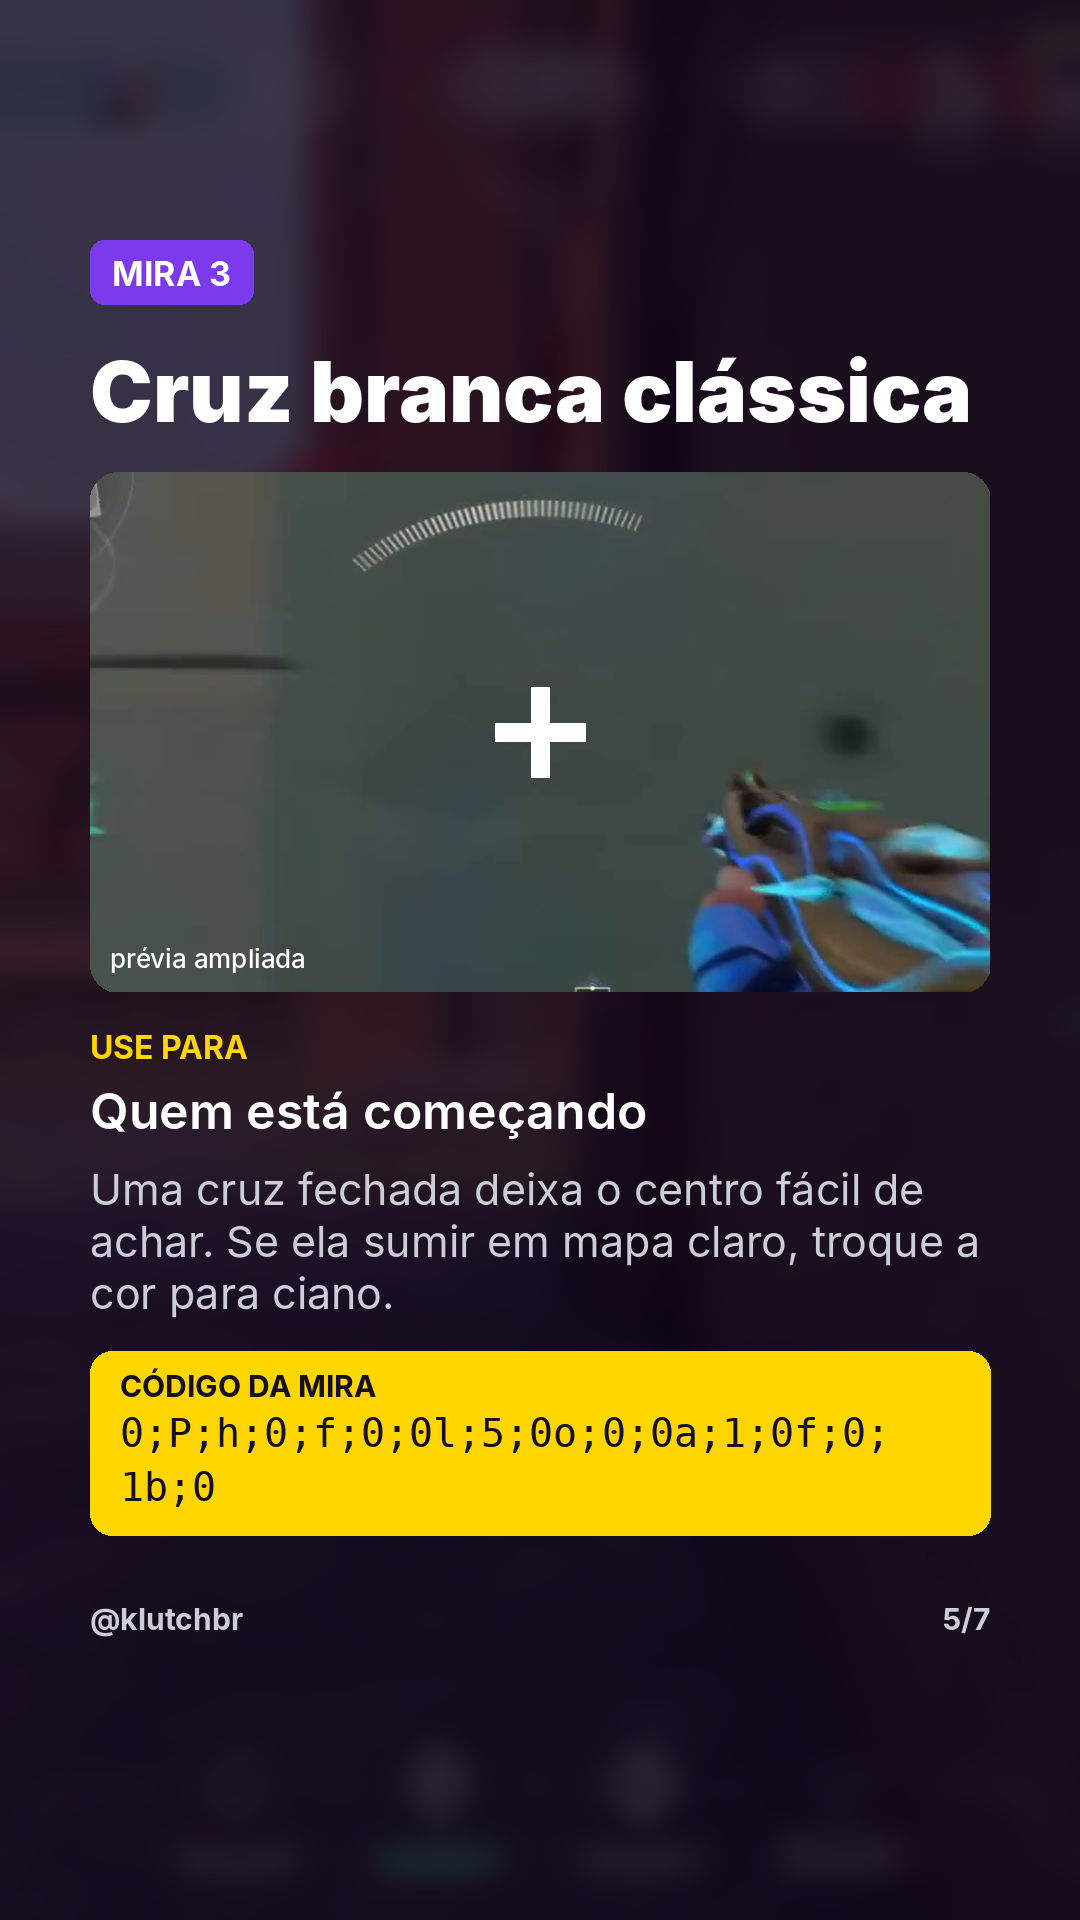
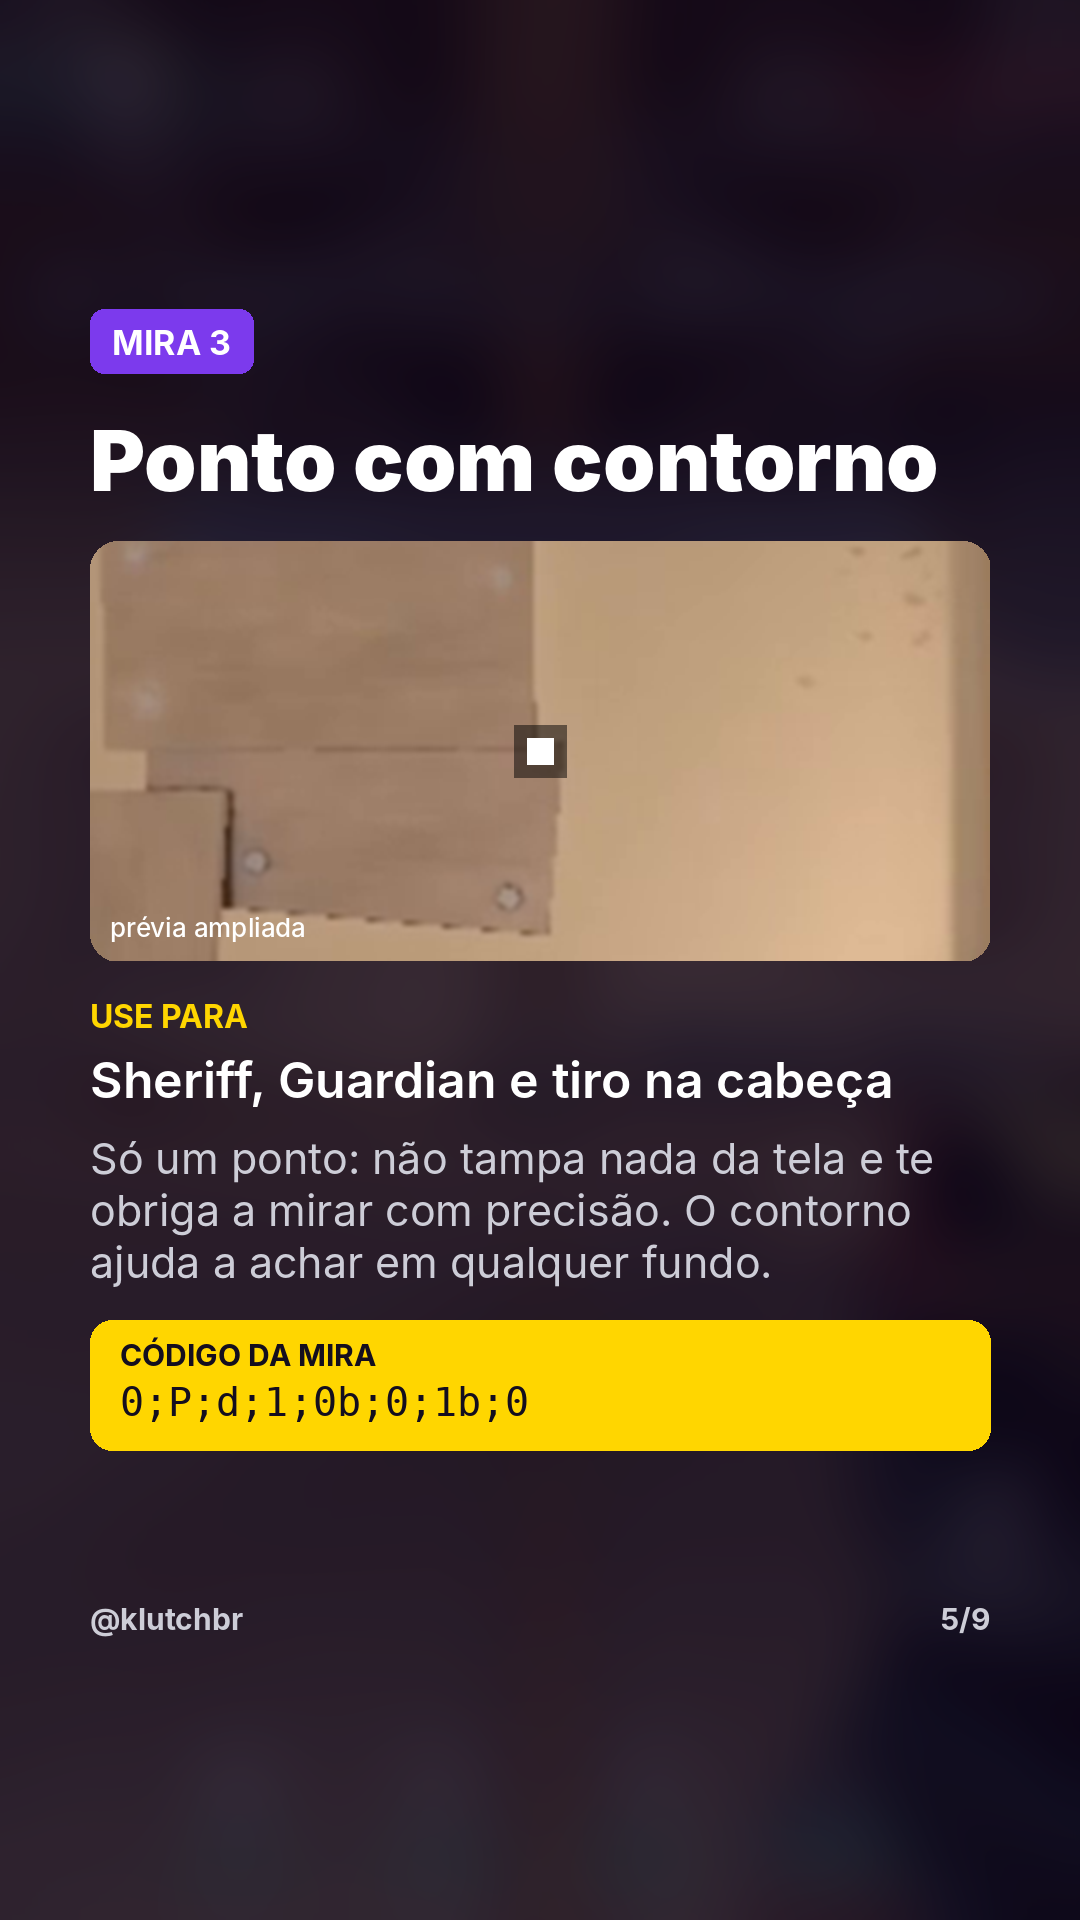
Carrossel de miras refeito com as 5 miras enviadas pelo dono
Claude-Session: https://claude.ai/code/session_01FgrfZPDFyZsNW4jAUKCZaJ

diff --git a/carrosseis/gerar.py b/carrosseis/gerar.py
@@ -22,11 +22,12 @@ def f(peso, tam):
 
 
 def fundo(nome, escurecer=0.32):
+    blur = 34 if nome.startswith("ret") else 14
     im = Image.open(BG / f"{nome}.png").convert("RGB")
     s = max(W / im.width, H / im.height)
     im = im.resize((int(im.width * s) + 1, int(im.height * s) + 1), Image.LANCZOS)
     x = (im.width - W) // 2
-    im = im.crop((x, 0, x + W, H)).filter(ImageFilter.GaussianBlur(14))
+    im = im.crop((x, 0, x + W, H)).filter(ImageFilter.GaussianBlur(blur))
     im = ImageEnhance.Brightness(im).enhance(escurecer)
     # véu roxo bem leve
     veu = Image.new("RGB", (W, H), (30, 12, 60))
@@ -142,34 +143,31 @@ def s_classe(s, d, im):
 
 
 def desenha_mira(cfg, escala=9):
-    """Desenha a mira com base nos parâmetros do código (em pixels do jogo x escala)."""
-    tam = 480
+    """Desenha a mira a partir dos parâmetros do código (pixels do jogo x escala)."""
+    tam = 640
     im = Image.new("RGBA", (tam, tam), (0, 0, 0, 0))
-    d = ImageDraw.Draw(im)
-    c = tam // 2
+    c = tam / 2
     cor = tuple(cfg["cor"])
-    t = cfg.get("t", 2) * escala
-    contorno = cfg.get("h", 0)
-    oc = (0, 0, 0, 255)
-    ow = escala  # espessura do contorno
-
-    def ret(x0, y0, x1, y1):
-        if contorno:
-            d.rectangle((x0 - ow, y0 - ow, x1 + ow, y1 + ow), fill=oc)
-        d.rectangle((x0, y0, x1, y1), fill=cor)
-
     rects = []
-    if cfg.get("l", 0) > 0:
-        L = cfg["l"] * escala
-        o = cfg.get("o", 0) * escala
-        rects += [(c - t / 2, c - o - L, c + t / 2, c - o), (c - t / 2, c + o, c + t / 2, c + o + L),
-                  (c - o - L, c - t / 2, c - o, c + t / 2), (c + o, c - t / 2, c + o + L, c + t / 2)]
+    for ln in cfg.get("linhas", []):
+        t = ln.get("t", 2) * escala
+        o = ln.get("o", 0) * escala
+        lh, lv = ln.get("lh", 0) * escala, ln.get("lv", 0) * escala
+        if lv:
+            rects += [(c - t / 2, c - o - lv, c + t / 2, c - o), (c - t / 2, c + o, c + t / 2, c + o + lv)]
+        if lh:
+            rects += [(c - o - lh, c - t / 2, c - o, c + t / 2), (c + o, c - t / 2, c + o + lh, c + t / 2)]
     if cfg.get("dot"):
         z = cfg.get("z", 2) * escala
         rects.append((c - z / 2, c - z / 2, c + z / 2, c + z / 2))
-    if contorno:
+    if cfg.get("contorno"):
+        ow = cfg.get("ow", 1) * escala
+        oa = int(255 * cfg.get("oa", 0.5))
+        lay = Image.new("RGBA", (tam, tam), (0, 0, 0, 0)); dl = ImageDraw.Draw(lay)
         for r in rects:
-            d.rectangle((r[0] - ow, r[1] - ow, r[2] + ow, r[3] + ow), fill=oc)
+            dl.rectangle((r[0] - ow, r[1] - ow, r[2] + ow, r[3] + ow), fill=(0, 0, 0, oa))
+        im.alpha_composite(lay)
+    d = ImageDraw.Draw(im)
     for r in rects:
         d.rectangle(r, fill=cor)
     return im
@@ -180,14 +178,16 @@ def s_mira(s, d, im):
     y = selo(d, M, y, s["selo"]) + 36
     y = texto(d, (M, y), s["titulo"], f("Black", 84), BRANCO) + 30
     # prévia sobre a gameplay
-    bx = (M, y, W - M, y + 520)
+    bx = (M, y, W - M, y + 420)
     prev = Image.open(BG / f"{s['fundo_mira']}.png").convert("RGB")
-    s2 = max((bx[2] - bx[0]) / prev.width * 1.6, (bx[3] - bx[1]) / prev.height * 1.6)
+    zf = s.get("zoom_fundo", 1.6)
+    s2 = max((bx[2] - bx[0]) / prev.width * zf, (bx[3] - bx[1]) / prev.height * zf)
     prev = prev.resize((int(prev.width * s2), int(prev.height * s2)), Image.LANCZOS)
     cx, cy = prev.width // 2, prev.height // 2
     bw, bh = bx[2] - bx[0], bx[3] - bx[1]
+    prev = prev.filter(ImageFilter.GaussianBlur(2))
     prev = prev.crop((cx - bw // 2, cy - bh // 2, cx - bw // 2 + bw, cy - bh // 2 + bh)).convert("RGBA")
-    mira = desenha_mira(s["mira"])
+    mira = desenha_mira(s["mira"], escala=13)
     prev.alpha_composite(mira, (bw // 2 - mira.width // 2, bh // 2 - mira.height // 2))
     mask = Image.new("L", (bw, bh), 0); ImageDraw.Draw(mask).rounded_rectangle((0, 0, bw, bh), 28, fill=255)
     im.paste(prev, (bx[0], bx[1]), mask)
